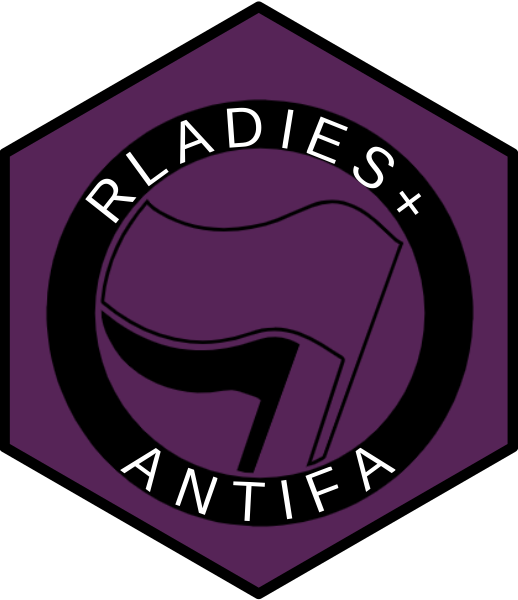
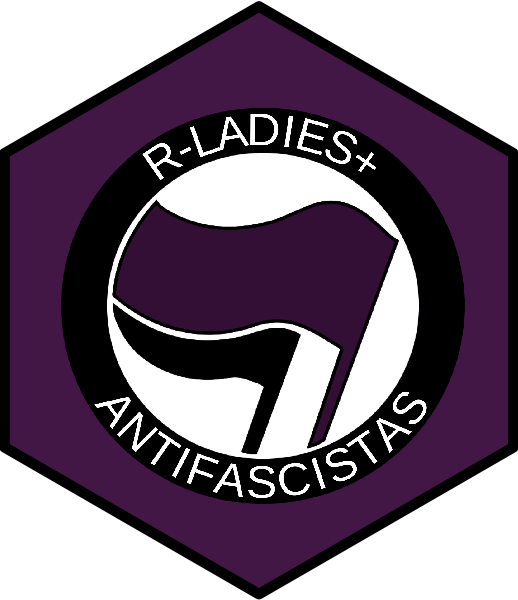
edit through svg - thanks djnavarro for her get_image() function in package rainbowr

diff --git a/README.md b/README.md
@@ -9,13 +9,13 @@ library(hexSticker)
 library(png)
 library(grid)
 library(plotrix)
+library(grDevices)
+library(magick)
 ```
 
 In addition, load these functions
 
 ``` r
-# helper functions
-source("fct/addImg.R")
 source("fct/antifa.R")
 ```
 
@@ -32,18 +32,37 @@ function `antifa()` creates the flag with the desired title.
 
 ``` r
 #antifa image
-antifa(text.size = 2.5)
+antifa(text.size = 2.3)
 ```
 
 ![](README_files/figure-gfm/unnamed-chunk-4-1.png)<!-- -->
 
-Finally, we create the hexSticker:
+``` r
+antifa(x = "BIÓLOGAS", bg.col = "darkgreen", text.size = 2.3)
+```
+
+![](README_files/figure-gfm/unnamed-chunk-4-2.png)<!-- -->
 
 ``` r
-sticker(~ antifa(text.size = 3.5),
+antifa(x = "r-ladies+", bg.col = rladies, text.size = 2.3)
+```
+
+![](README_files/figure-gfm/unnamed-chunk-4-3.png)<!-- -->
+
+To create the hexSticker the image should be on disk (`save = TRUE`)
+
+``` r
+antifa(save = TRUE)
+```
+
+    ## [1] "./figs/antifa.png"
+
+``` r
+sticker(antifa(save = TRUE),
         package = "",
-        s_x = .7, s_y = .7,
-        s_width = 3.5, s_height = 3.5,
+        asp = 0.85,
+        s_x = 0.95, s_y = 0.95,
+        s_width = 1.2, s_height = 1.2,
         p_size = 13,
         h_fill = rladies, #bg color for hexsticker
         h_color = "black",
